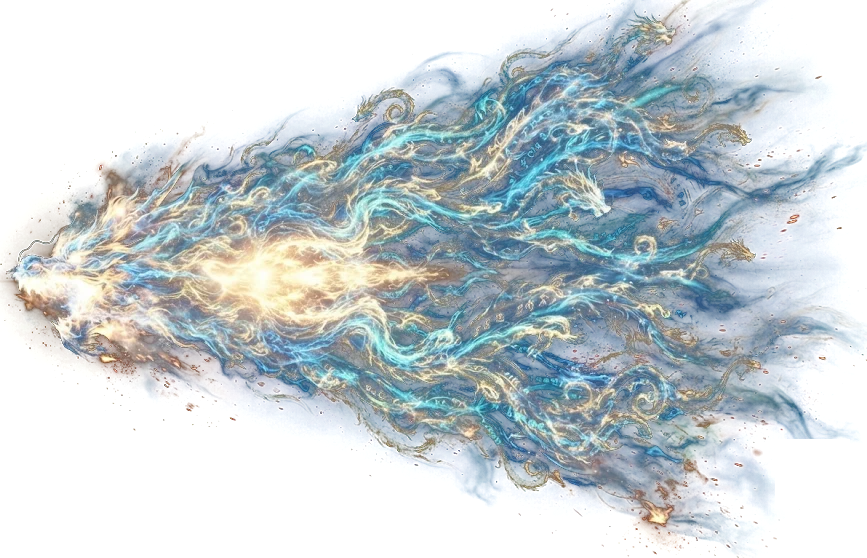
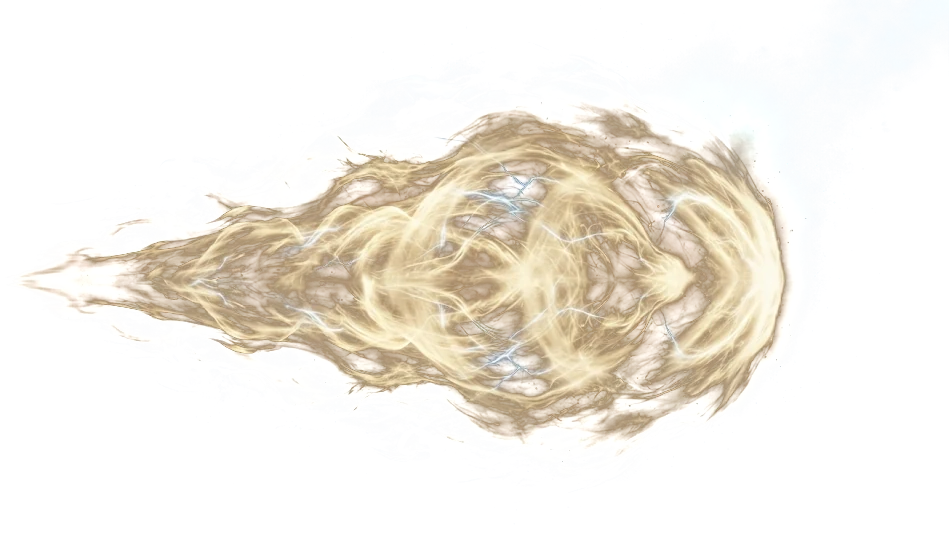
Serpent and dragon blasts from SHOAIB's pictures, coloured by element
Serpents breathe a twisting torrent (art/fx/serpent_blast.webp, the backdrop keyed out by colour
strength) tinted to the element's hue: green Venom, ice-blue Frost, purple Shadow. Dragons blast an
orb of crackling energy (art/fx/dragon_blast.webp, replacing the multicoloured one) coloured by a
masked tint layer in the element's colour; their coils, streaks, sphere and mist follow the element
colour too.

Claude-Session: https://claude.ai/code/session_018PQaDMse7FKwmEArJBH7rU

diff --git a/web/static/fight.js b/web/static/fight.js
@@ -637,6 +637,15 @@
        (`runes`). As it lunges, jaws wide (`hiss`): a flash at its mouth and a roaring stream of its element breathed
        at you, widening as it goes and churning while it holds, droplets spraying through it, mist rolling out along
        the ground both ways, and the camera punching in. A final hiss is bigger. */
+    function hueOf(hex) {                                        // the hue of a #rrggbb colour, in degrees
+      var m = /^#?([0-9a-f]{2})([0-9a-f]{2})([0-9a-f]{2})$/i.exec(hex || '');
+      if (!m) return 150;
+      var r = parseInt(m[1], 16) / 255, g = parseInt(m[2], 16) / 255, b = parseInt(m[3], 16) / 255;
+      var mx = Math.max(r, g, b), mn = Math.min(r, g, b), d = mx - mn;
+      if (!d) return 150;
+      var h = mx === r ? ((g - b) / d) % 6 : mx === g ? (b - r) / d + 2 : (r - g) / d + 4;
+      return (h * 60 + 360) % 360;
+    }
     function runes(pic, ms) {
       var c = at(pic, 0.5, 0.48), size = Math.min(1000, pic.height * 1.55);
       var n = document.createElement('div');
@@ -654,9 +663,10 @@
       var len = Math.sqrt(dx * dx + dy * dy) * 1.08, ang = Math.atan2(dy, dx) * 180 / Math.PI;
       var flash = fx('broarflash', 0, 0, 520); flash.style.setProperty('--x', p[0] + '%'); flash.style.setProperty('--y', p[1] + '%');
       wave(p, 'burst', Math.min(800, tall * 0.9 * big), 460, 0, 'broarbig star', 0, 0.9);
-      ['', ' b2'].forEach(function (k, i) {                    // the stream, two churning layers
-        fx('bbreath' + k, p[0], p[1], 1650, {'--rc': ROAR.color, '--len': len + 'px', '--ang': ang + 'deg',
-          '--h': Math.min(700, tall * (0.95 + 0.25 * i) * big) + 'px', 'animation-delay': (60 * i) + 'ms'});
+      var fy = Math.abs(ang) > 90 ? -1 : 1, hue = hueOf(ROAR.color), tint = (hue > 60 && hue < 170 ? 0 : hue - 150) + 'deg';   // the picture is venom green
+      ['bsblast glow', 'bsblast'].forEach(function (k) {       // the stream: a twisting torrent from SHOAIB's picture
+        fx(k, p[0], p[1], 1700, {'--len': len + 'px', '--ang': ang + 'deg', '--fy': fy, '--tint': tint,
+          '--h': Math.min(520, Math.max(220, len * 0.45)) * big + 'px'});
       });
       for (var j = 0; j < 46; j++) {                           // droplets spraying through it
         var q = 0.25 + Math.random() * 0.85, spread = (Math.random() - 0.5) * tall * 0.75 * q * big;
@@ -699,11 +709,11 @@
        element coil up round its body (`coil`) and Qi swirls into its jaws (`gather`). As it roars (`storm`): a flash
        and a blazing blast of its element at you, lightning streaks fanning out round it, then its whole body bursting
        into a sphere of light with spikes and rings, mist pooling at its base, and the camera punching in. */
-    var DRAGON_BLUE = '#5fd0ff', DRAGON_GOLD = '#ffd98a';      // the palette of SHOAIB's dragon blast picture
+    var DRAGON_GOLD = '#fff1d0';                                 // the blast picture's own pale light, beside the element's colour
     function coil(pic, ms) {
       var c = at(pic, 0.45, 0.5);
       for (var i = 0; i < 4; i++) {
-        fx('bcoil', c[0], c[1] + 8 - i * 6, ms, {'--rc': i % 2 ? DRAGON_GOLD : DRAGON_BLUE, '--w': pic.width * (0.95 - 0.12 * i) + 'px',
+        fx('bcoil', c[0], c[1] + 8 - i * 6, ms, {'--rc': i % 2 ? DRAGON_GOLD : ROAR.color, '--w': pic.width * (0.95 - 0.12 * i) + 'px',
           '--h': pic.height * 0.32 + 'px', '--life': ms + 'ms', '--r0': (i * 70) + 'deg', 'animation-delay': (i * 90) + 'ms'});
       }
     }
@@ -715,23 +725,23 @@
       var flash = fx('broarflash', 0, 0, 520); flash.style.setProperty('--x', p[0] + '%'); flash.style.setProperty('--y', p[1] + '%');
       wave(p, 'burst', Math.min(700, tall * 0.8 * big), 480, 0, 'broarbig star', 9, 0.6);
       var fy = Math.abs(ang) > 90 ? -1 : 1;                    // keep the blast picture the right way up
-      ['bblast glow', 'bblast'].forEach(function (k) {         // the blast: a torrent of blue and gold Qi and spirit dragons
-        fx(k, p[0], p[1], 1700, {'--len': len + 'px', '--ang': ang + 'deg', '--fy': fy,
+      ['bblast glow', 'bblast', 'bblast tint'].forEach(function (k) {   // the blast, from SHOAIB's picture, in its element's colour
+        fx(k, p[0], p[1], 1700, {'--len': len + 'px', '--ang': ang + 'deg', '--fy': fy, '--rc': ROAR.color,
           '--h': Math.min(620, Math.max(260, len * 0.5)) * big + 'px'});
       });
       for (var j = 0; j < 12; j++) {                           // lightning streaks fanning out round the blast
-        fx('bstreak', p[0], p[1], 1300, {'--rc': j % 2 ? DRAGON_GOLD : DRAGON_BLUE, '--len': len * (0.35 + Math.random() * 0.5) + 'px',
+        fx('bstreak', p[0], p[1], 1300, {'--rc': j % 2 ? DRAGON_GOLD : ROAR.color, '--len': len * (0.35 + Math.random() * 0.5) + 'px',
           '--ang': (ang + (Math.random() - 0.5) * 50) + 'deg', 'animation-delay': (40 + Math.random() * 500) + 'ms'});
       }
       var c = at(pic, 0.45, 0.5), sz = Math.min(800, pic.width * 0.8 * big);
-      fx('bnova', c[0], c[1], 1850, {'--rc': DRAGON_BLUE, '--s': sz + 'px', 'animation-delay': '520ms'});
+      fx('bnova', c[0], c[1], 1850, {'--rc': ROAR.color, '--s': sz + 'px', 'animation-delay': '520ms'});
       fx('bnova', c[0], c[1], 1650, {'--rc': DRAGON_GOLD, '--s': sz * 0.55 + 'px', 'animation-delay': '620ms'});
       wave(c, 'ring', sz * 1.2, 700, 520, 'broarbig', 0, 0.45);
       wave(c, 'double', sz * 1.4, 800, 760, 'broarbig', 0, 0.3);
       var f = at(pic, 0.5, 0.98);                              // mist pooling at its base
       for (var m = 0; m < 10; m++) {
         var side = m % 2 ? 1 : -1;
-        fx('bdust bmist', f[0] + side * (2 + 2.5 * m), f[1] - Math.random() * 2, 2000, {'--rc': DRAGON_BLUE,
+        fx('bdust bmist', f[0] + side * (2 + 2.5 * m), f[1] - Math.random() * 2, 2000, {'--rc': ROAR.color,
           '--dx': side * (40 + 22 * m) + 'px', '--s': (0.9 + Math.random() * 0.6).toFixed(2), 'animation-delay': (600 + 30 * m) + 'ms'});
       }
       camera(p, 1 + 0.07 * big, 1500);
@@ -859,7 +869,7 @@
         }
       }, clear: function () {
         hero(0, 0);
-        scene.querySelectorAll('.broar,.broarbig,.broarlines,.broarflash,.bmote,.bbeam,.bfeather,.bthroat,.brune,.bbreath,.bdrop,.bnova,.bquake,.bcoil,.bstreak,.bblast').forEach(function (n) { n.remove(); });
+        scene.querySelectorAll('.broar,.broarbig,.broarlines,.broarflash,.bmote,.bbeam,.bfeather,.bthroat,.brune,.bbreath,.bdrop,.bnova,.bquake,.bcoil,.bstreak,.bblast,.bsblast').forEach(function (n) { n.remove(); });
         if (opened) { beast.src = still; opened = false; }
         beast.style.transform = ''; beast.style.transformOrigin = '';
         if (bposes) bpose(home);

diff --git a/web/static/style.css b/web/static/style.css
@@ -998,19 +998,21 @@ main.battle.roused:not(.playing) .beast img{animation:roused 1.4s ease-in-out in
 @keyframes bcoil{0%{opacity:0;transform:translate(-50%,-30%) rotate(var(--r0)) scale(1.2)}25%{opacity:1}
   85%{opacity:.9}100%{opacity:0;transform:translate(-50%,-70%) rotate(calc(var(--r0) + 300deg)) scale(.85)}}
 .bblast{position:absolute;z-index:5;width:var(--len);height:var(--h);pointer-events:none;opacity:0;
-  background:url(/art/fx/dragon_blast.webp) 0 50%/100% 100% no-repeat;transform-origin:0 47%;
-  transform:translate(0,-47%) rotate(var(--ang)) scaleY(var(--fy)) scaleX(0);
-  filter:brightness(1.15) drop-shadow(0 0 16px rgba(110,200,255,.7));animation:bblast 1.7s cubic-bezier(.2,.7,.3,1) forwards}
-.bblast.glow{mix-blend-mode:screen;filter:blur(14px) brightness(1.4);animation-name:bblastglow}
-@keyframes bblast{0%{opacity:0;transform:translate(0,-47%) rotate(var(--ang)) scaleY(var(--fy)) scaleX(0)}
-  14%{opacity:1;transform:translate(0,-47%) rotate(var(--ang)) scaleY(calc(var(--fy) * .9)) scaleX(1)}
-  40%{transform:translate(0,-47%) rotate(var(--ang)) scaleY(calc(var(--fy) * 1.05)) scaleX(1.02)}
-  60%{transform:translate(0,-47%) rotate(var(--ang)) scaleY(calc(var(--fy) * .97)) scaleX(1)}
-  78%{opacity:.9}100%{opacity:0;transform:translate(0,-47%) rotate(var(--ang)) scaleY(calc(var(--fy) * 1.15)) scaleX(1.06)}}
-@keyframes bblastglow{0%{opacity:0;transform:translate(0,-47%) rotate(var(--ang)) scaleY(var(--fy)) scaleX(0)}
-  14%{opacity:.8;transform:translate(0,-47%) rotate(var(--ang)) scaleY(var(--fy)) scaleX(1)}
+  background:url(/art/fx/dragon_blast.webp) 0 50%/100% 100% no-repeat;transform-origin:0 51%;
+  transform:translate(0,-51%) rotate(var(--ang)) scaleY(var(--fy)) scaleX(0);
+  filter:brightness(1.1) drop-shadow(0 0 16px var(--rc));animation:bblast 1.7s cubic-bezier(.2,.7,.3,1) forwards}
+.bblast.tint{background:var(--rc);mix-blend-mode:color;filter:none;
+  -webkit-mask:url(/art/fx/dragon_blast.webp) 0 50%/100% 100% no-repeat;mask:url(/art/fx/dragon_blast.webp) 0 50%/100% 100% no-repeat}
+.bblast.glow{mix-blend-mode:screen;filter:blur(14px) brightness(1.2) drop-shadow(0 0 30px var(--rc));animation-name:bblastglow}
+@keyframes bblast{0%{opacity:0;transform:translate(0,-51%) rotate(var(--ang)) scaleY(var(--fy)) scaleX(0)}
+  14%{opacity:1;transform:translate(0,-51%) rotate(var(--ang)) scaleY(calc(var(--fy) * .9)) scaleX(1)}
+  40%{transform:translate(0,-51%) rotate(var(--ang)) scaleY(calc(var(--fy) * 1.05)) scaleX(1.02)}
+  60%{transform:translate(0,-51%) rotate(var(--ang)) scaleY(calc(var(--fy) * .97)) scaleX(1)}
+  78%{opacity:.9}100%{opacity:0;transform:translate(0,-51%) rotate(var(--ang)) scaleY(calc(var(--fy) * 1.15)) scaleX(1.06)}}
+@keyframes bblastglow{0%{opacity:0;transform:translate(0,-51%) rotate(var(--ang)) scaleY(var(--fy)) scaleX(0)}
+  14%{opacity:.8;transform:translate(0,-51%) rotate(var(--ang)) scaleY(var(--fy)) scaleX(1)}
   30%{opacity:.45}45%{opacity:.75}60%{opacity:.4}75%{opacity:.6}
-  100%{opacity:0;transform:translate(0,-47%) rotate(var(--ang)) scaleY(calc(var(--fy) * 1.2)) scaleX(1.06)}}
+  100%{opacity:0;transform:translate(0,-51%) rotate(var(--ang)) scaleY(calc(var(--fy) * 1.2)) scaleX(1.06)}}
 .bstreak{position:absolute;z-index:5;width:var(--len);height:3px;pointer-events:none;mix-blend-mode:screen;opacity:0;
   transform-origin:0 50%;transform:translate(0,-50%) rotate(var(--ang)) scaleX(0);
   background:linear-gradient(90deg,#fff,color-mix(in srgb,var(--rc) 70%,#fff) 40%,transparent);box-shadow:0 0 10px var(--rc);
@@ -1059,6 +1061,20 @@ main.battle.roused:not(.playing) .beast img{animation:roused 1.4s ease-in-out in
 @keyframes bbreath{0%{opacity:0;transform:translate(0,-50%) rotate(var(--ang)) scaleX(0)}10%{opacity:.95;transform:translate(0,-50%) rotate(var(--ang)) scaleX(1)}
   75%{opacity:.8}100%{opacity:0;transform:translate(0,-50%) rotate(var(--ang)) scaleX(1) scaleY(1.2)}}
 @keyframes bchurn{to{background-position:0 0,-240px 0}}
+.bsblast{position:absolute;z-index:5;width:var(--len);height:var(--h);pointer-events:none;opacity:0;
+  background:url(/art/fx/serpent_blast.webp) 0 50%/100% 100% no-repeat;transform-origin:0 51%;
+  transform:translate(0,-51%) rotate(var(--ang)) scaleY(var(--fy)) scaleX(0);
+  filter:hue-rotate(var(--tint)) saturate(1.2) brightness(1.15);animation:bsblast 1.7s cubic-bezier(.2,.7,.3,1) forwards}
+.bsblast.glow{mix-blend-mode:screen;filter:hue-rotate(var(--tint)) blur(12px) brightness(1.5);animation-name:bsblastglow}
+@keyframes bsblast{0%{opacity:0;transform:translate(0,-51%) rotate(var(--ang)) scaleY(var(--fy)) scaleX(0)}
+  14%{opacity:1;transform:translate(0,-51%) rotate(var(--ang)) scaleY(calc(var(--fy) * .9)) scaleX(1)}
+  40%{transform:translate(0,-51%) rotate(var(--ang)) scaleY(calc(var(--fy) * 1.05)) scaleX(1.02)}
+  60%{transform:translate(0,-51%) rotate(var(--ang)) scaleY(calc(var(--fy) * .96)) scaleX(1)}
+  78%{opacity:.9}100%{opacity:0;transform:translate(0,-51%) rotate(var(--ang)) scaleY(calc(var(--fy) * 1.15)) scaleX(1.05)}}
+@keyframes bsblastglow{0%{opacity:0;transform:translate(0,-51%) rotate(var(--ang)) scaleY(var(--fy)) scaleX(0)}
+  14%{opacity:.7;transform:translate(0,-51%) rotate(var(--ang)) scaleY(var(--fy)) scaleX(1)}
+  30%{opacity:.4}45%{opacity:.7}60%{opacity:.35}75%{opacity:.55}
+  100%{opacity:0;transform:translate(0,-51%) rotate(var(--ang)) scaleY(calc(var(--fy) * 1.2)) scaleX(1.05)}}
 .bdrop{position:absolute;z-index:5;width:9px;height:9px;border-radius:50%;pointer-events:none;opacity:0;
   background:radial-gradient(circle,#fff,var(--rc) 60%,transparent 70%);box-shadow:0 0 8px var(--rc);
   animation:bdrop 1.4s ease-out forwards}

diff --git a/docs/web.md b/docs/web.md
@@ -356,7 +356,8 @@ a lair is fought with `bot/hunt.py`.
    **The serpents hiss** (`ROAR_ANIMATIONS["serpent"]`, from SHOAIB's serpent roar video of a viper; `gather`, `runes`
    and `hiss` in `fight.js`): each coils back with its head low, then rears high while Qi of its element swirls into its
    jaws and a circle of glowing runes with spinning golden rings flares up behind it; then it lunges with its
-   open-mouthed picture and breathes a roaring stream of its element at you, droplets spraying through it and mist
+   open-mouthed picture and breathes a twisting torrent of venom at you (`art/fx/serpent_blast.webp`, from SHOAIB's
+   picture, tinted to its element's colour), droplets spraying through it and mist
    rolling out along the ground, the camera punching in, and settles. Same rules, damage and log line.
    **The amphibians roar** (`ROAR_ANIMATIONS["amphibian"]`, from SHOAIB's amphibian roar video of the Thornback
    Lizard; `gather` and `quake` in `fight.js`): each crouches low while Qi of its element swirls in, then throws its
@@ -365,8 +366,8 @@ a lair is fought with `bot/hunt.py`.
    damage and log line.
    **The dragons roar** (`ROAR_ANIMATIONS["dragon"]`, from SHOAIB's dragon roar video of the Flood Dragon; `coil`,
    `gather` and `storm` in `fight.js`): each draws its head back while ribbons of its element coil up round its body,
-   then rears and roars with its open-mouthed picture, a torrent of blue and gold Qi and spirit dragons blasting at you
-   (`art/fx/dragon_blast.webp`, from SHOAIB's picture) with lightning streaks
+   then rears and roars with its open-mouthed picture, an orb of crackling energy blasting at you
+   (`art/fx/dragon_blast.webp`, from SHOAIB's picture, coloured by its element) with lightning streaks
    fanning out, its body bursting into a sphere of light with spikes and rings, mist pooling at its base, the camera
    punching in, and settles. Same rules, damage and log line.
    **The primates roar** (`ROAR_ANIMATIONS["primate"]`, from SHOAIB's primate roar video of the Silver Monkey;
